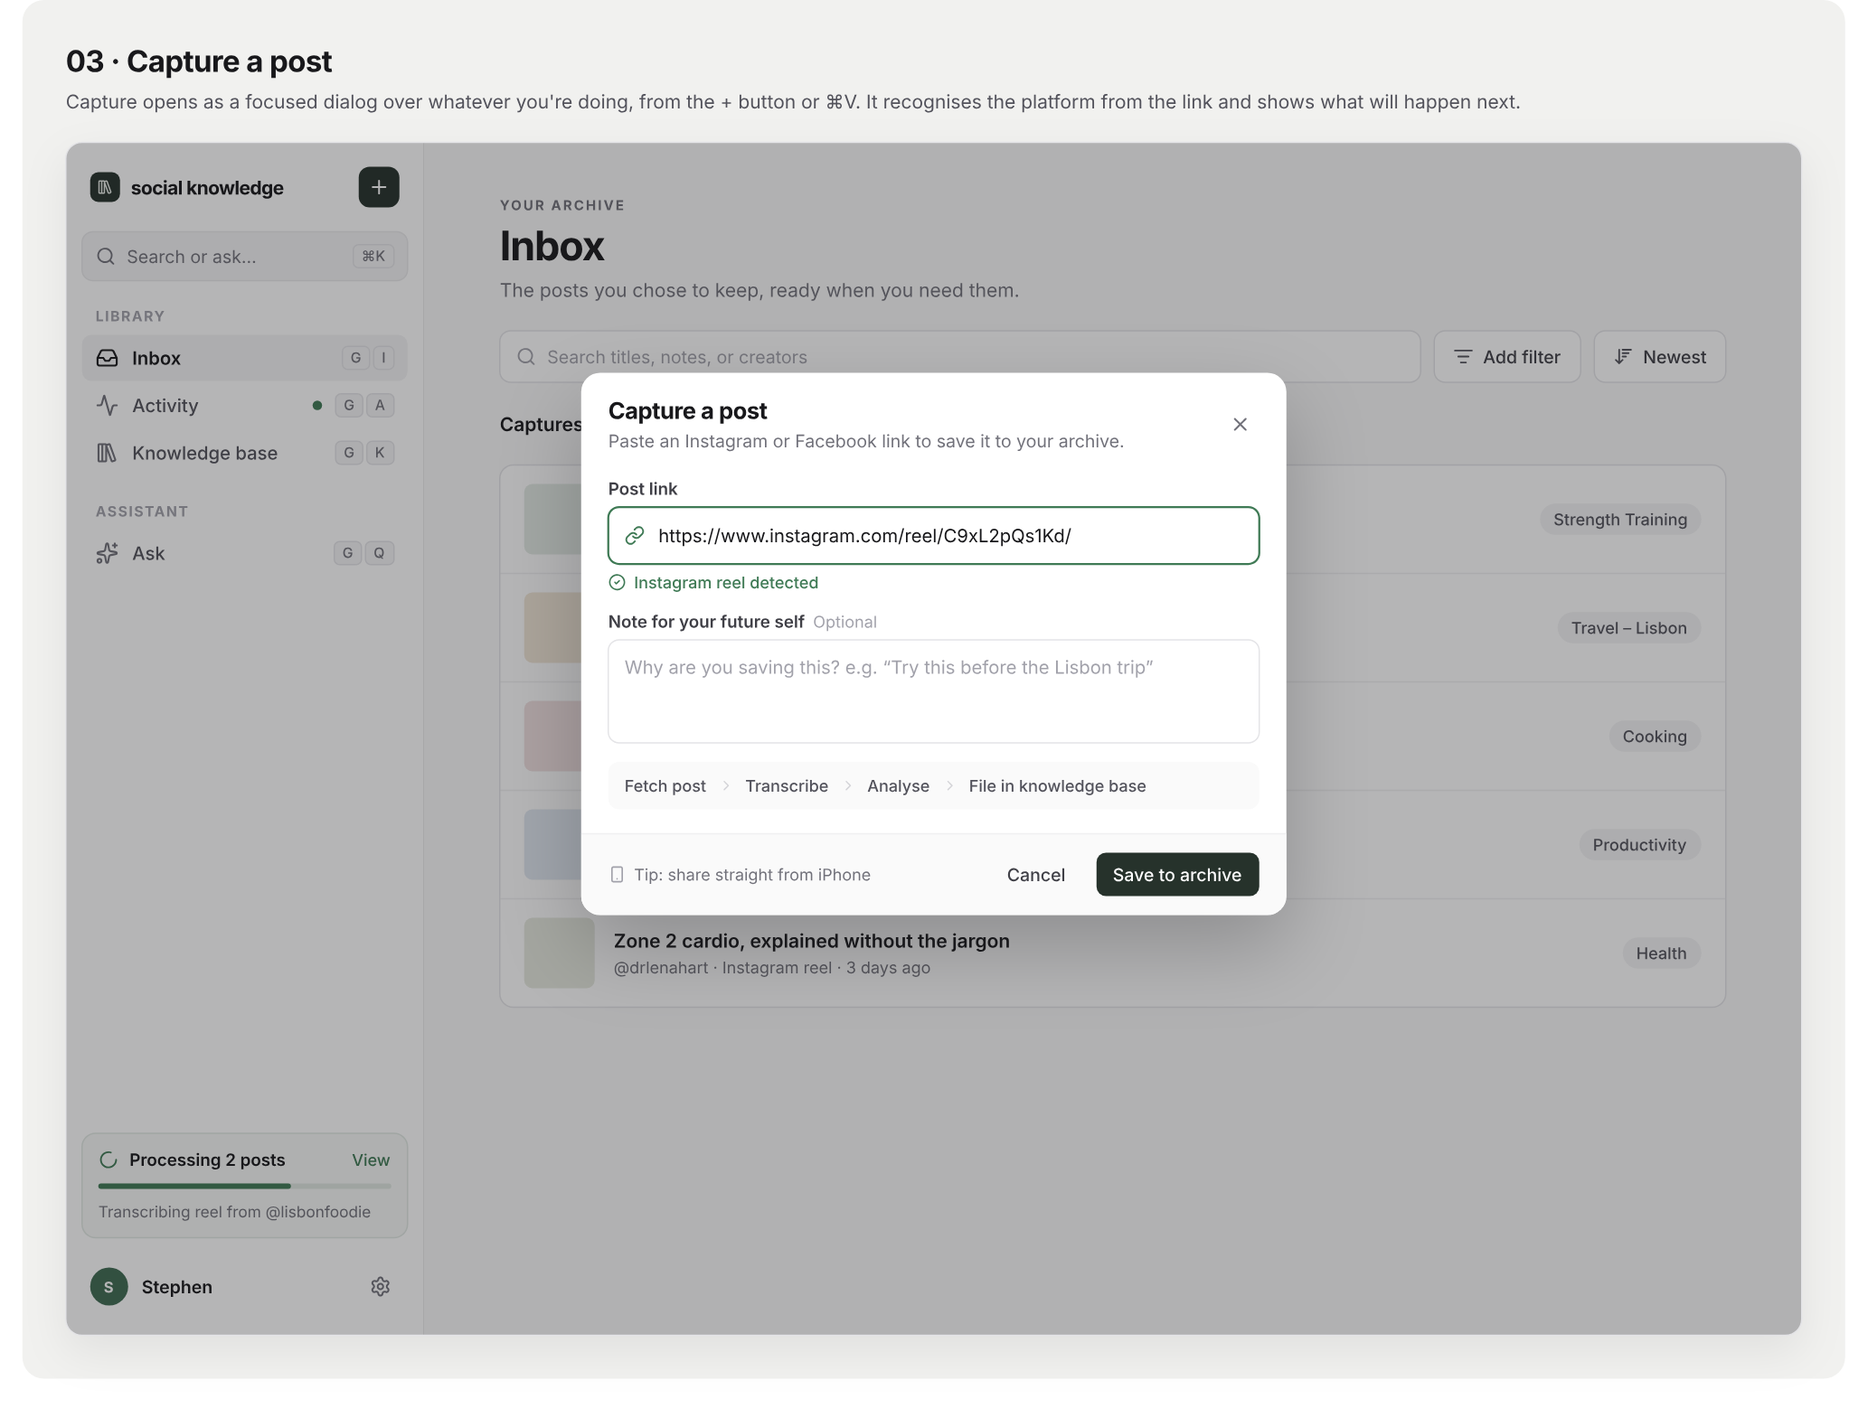
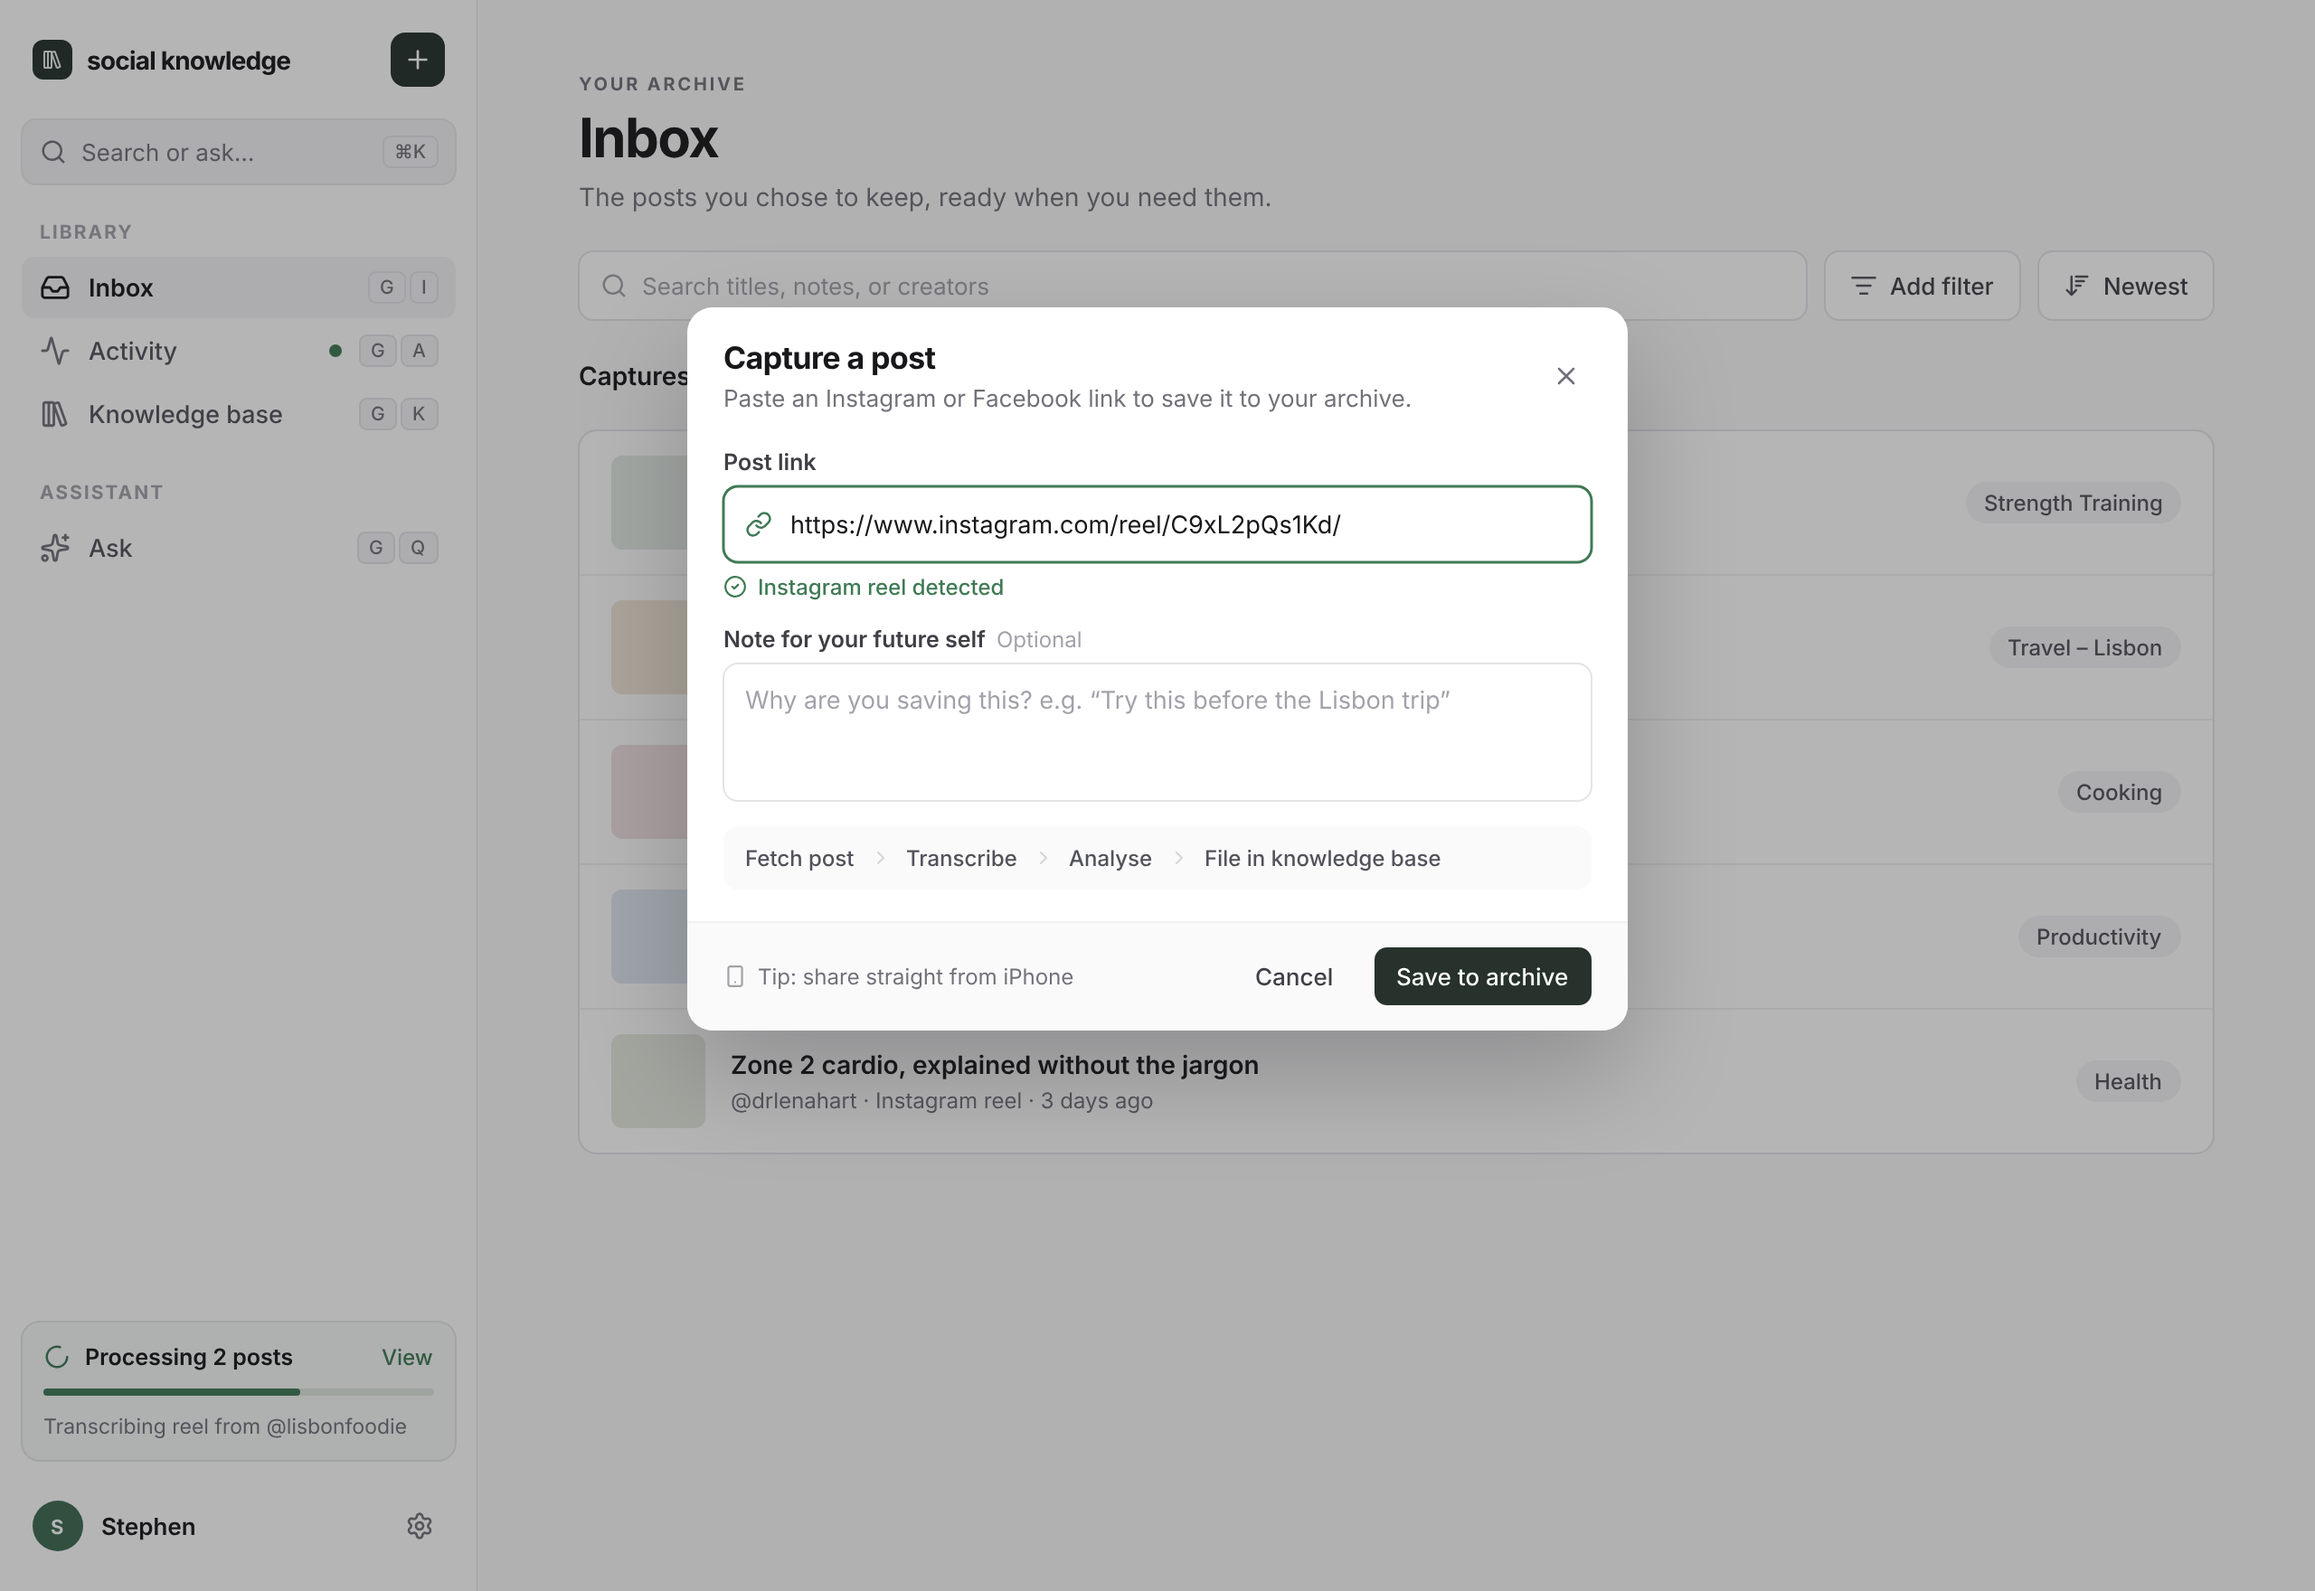
design: align v2 references with capture resolution and add comparison harness
Re-export the fifteen approved screens without pen's annotation chrome, drop
shadow, and corner radius so each reference is exactly 2560x1760 -- the same
resolution scripts/ui-screens.ts captures at. Add scripts/ui-compare.ts, which
renders each export beside its capture with a difference blend so drift from
the approved design is visible at a glance.

diff --git a/scripts/ui-compare.ts b/scripts/ui-compare.ts
@@ -1,0 +1,104 @@
+import { readdir, mkdir, writeFile, rm } from "node:fs/promises";
+import { existsSync } from "node:fs";
+import path from "node:path";
+import { chromium } from "playwright";
+
+/**
+ * Builds one side-by-side image per screen: the approved design on the left, the
+ * current implementation on the right, with a difference overlay beneath.
+ *
+ *   npx tsx scripts/ui-compare.ts [--captures artifacts/ui-screens] [--out artifacts/ui-compare]
+ *
+ * Run scripts/ui-screens.ts first. Chromium needs its system libraries on PATH;
+ * see docs/design/ui-v2-spec.md.
+ */
+
+const args = process.argv.slice(2);
+const flag = (name: string, fallback: string) => {
+  const index = args.indexOf(`--${name}`);
+  return index >= 0 && args[index + 1] ? args[index + 1] : fallback;
+};
+const referenceDir = path.resolve(
+  flag("reference", "docs/design/ui-v2/screens"),
+);
+const captureDir = path.resolve(flag("captures", "artifacts/ui-screens"));
+const outDir = path.resolve(flag("out", "artifacts/ui-compare"));
+
+const toUrl = (file: string) => `file://${file}`;
+
+const page_html = (name: string, reference: string, capture: string) => `
+<!doctype html>
+<html><head><meta charset="utf-8"><style>
+  :root { color-scheme: light; }
+  body { margin:0; background:#f1f1ef; font-family: Inter, system-ui, sans-serif; color:#18181b; }
+  h1 { font-size:22px; margin:0 0 4px; letter-spacing:-0.4px; }
+  p { font-size:13px; color:#71717a; margin:0 0 18px; }
+  .wrap { padding:28px; }
+  .cols { display:flex; gap:18px; align-items:flex-start; }
+  .col { flex:1; min-width:0; }
+  .label { font-size:11px; font-weight:700; letter-spacing:1px; text-transform:uppercase; color:#a1a1aa; margin-bottom:8px; }
+  .shot { width:100%; display:block; border:1px solid #e4e4e7; border-radius:8px; background:#fff; }
+  .diff { position:relative; margin-top:22px; }
+  .diff img { width:100%; display:block; border:1px solid #e4e4e7; border-radius:8px; }
+  .diff .over { position:absolute; inset:0; mix-blend-mode:difference; border-radius:8px; }
+  .missing { padding:40px; text-align:center; border:1px dashed #e4e4e7; border-radius:8px; color:#9f3f34; font-size:14px; background:#fff; }
+</style></head><body><div class="wrap">
+  <h1>${name}</h1>
+  <p>Left is the approved design. Right is the current implementation. The bottom strip is a difference blend: anything that is not black has drifted.</p>
+  <div class="cols">
+    <div class="col"><div class="label">Approved design</div><img class="shot" src="${reference}"></div>
+    <div class="col"><div class="label">Implementation</div>${
+      capture
+        ? `<img class="shot" src="${capture}">`
+        : `<div class="missing">no capture for this screen</div>`
+    }</div>
+  </div>
+  ${
+    capture
+      ? `<div class="col" style="margin-top:22px"><div class="label">Difference</div><div class="diff"><img src="${reference}"><img class="over" src="${capture}"></div></div>`
+      : ""
+  }
+</div></body></html>`;
+
+const references = (await readdir(referenceDir))
+  .filter((file) => file.endsWith(".png"))
+  .sort();
+if (!references.length) throw new Error(`no references in ${referenceDir}`);
+
+await mkdir(outDir, { recursive: true });
+const browser = await chromium.launch();
+// Wide enough that each column lands near the 1280px design width.
+const page = await browser.newPage({ viewport: { width: 2800, height: 1200 } });
+const scratch = path.join(outDir, ".compare.html");
+
+const missing: string[] = [];
+for (const file of references) {
+  const name = path.basename(file, ".png");
+  const capture = path.join(captureDir, file);
+  const hasCapture = existsSync(capture);
+  if (!hasCapture) missing.push(name);
+  // Written to disk because a file:// image will not load into about:blank.
+  await writeFile(
+    scratch,
+    page_html(
+      name,
+      toUrl(path.join(referenceDir, file)),
+      hasCapture ? toUrl(capture) : "",
+    ),
+  );
+  await page.goto(toUrl(scratch));
+  await page.waitForLoadState("networkidle");
+  await page.screenshot({
+    path: path.join(outDir, `${name}.png`),
+    fullPage: true,
+  });
+  console.log(`compared ${name}${hasCapture ? "" : " (capture missing)"}`);
+}
+
+await browser.close();
+await rm(scratch, { force: true });
+console.log(`\nComparisons written to ${outDir}`);
+if (missing.length) {
+  console.error(`\nNo capture found for: ${missing.join(", ")}`);
+  process.exitCode = 1;
+}

diff --git a/docs/design/ui-v2-spec.md b/docs/design/ui-v2-spec.md
@@ -241,7 +241,16 @@ Anything else that cannot be built as drawn is a blocker to raise, not a judgeme
 
 ## Verification
 
-`scripts/ui-screens.mjs` boots a disposable server with synthetic fixtures and captures every
-screen listed above to `artifacts/ui-screens/`. Compare each capture against its export at the
-same width before claiming a screen is done. A screen is complete when its structure, spacing,
-type, colour, and states match the export, the journey still works, and `npm run check` passes.
+```bash
+source ~/.cache/sk-browser/env.sh     # Chromium's system libraries live outside the repo
+npx tsx scripts/ui-screens.ts         # captures all fifteen screens to artifacts/ui-screens/
+npx tsx scripts/ui-compare.ts         # writes side-by-side + difference sheets to artifacts/ui-compare/
+```
+
+`ui-screens.ts` boots a disposable server over the synthetic archive in `scripts/ui-fixture.ts`
+and captures at 1280×880 with a 2× device pixel ratio, which is exactly the resolution of the
+exports in `docs/design/ui-v2/screens/`. `ui-compare.ts` puts the export and the capture side by
+side and blends them: in the difference strip, anything that is not black has drifted.
+
+A screen is complete when its structure, spacing, type, colour, and states match the export, its
+journey still works, and `npm run check` passes.
